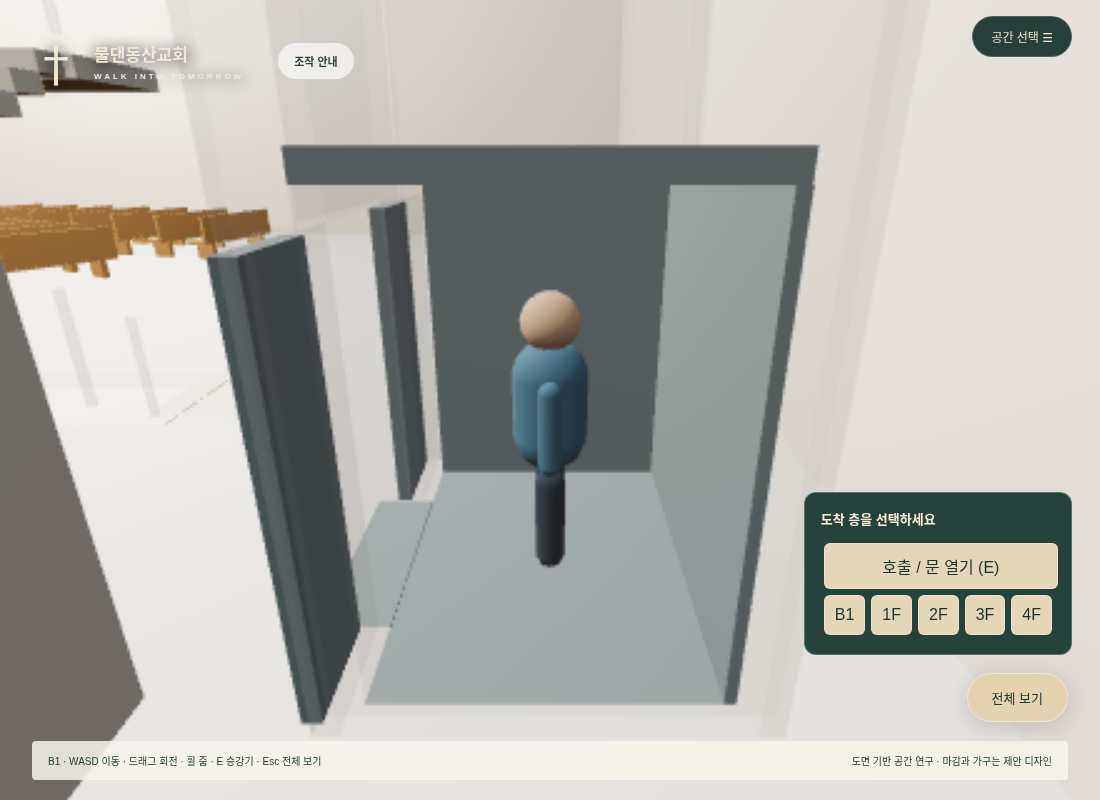
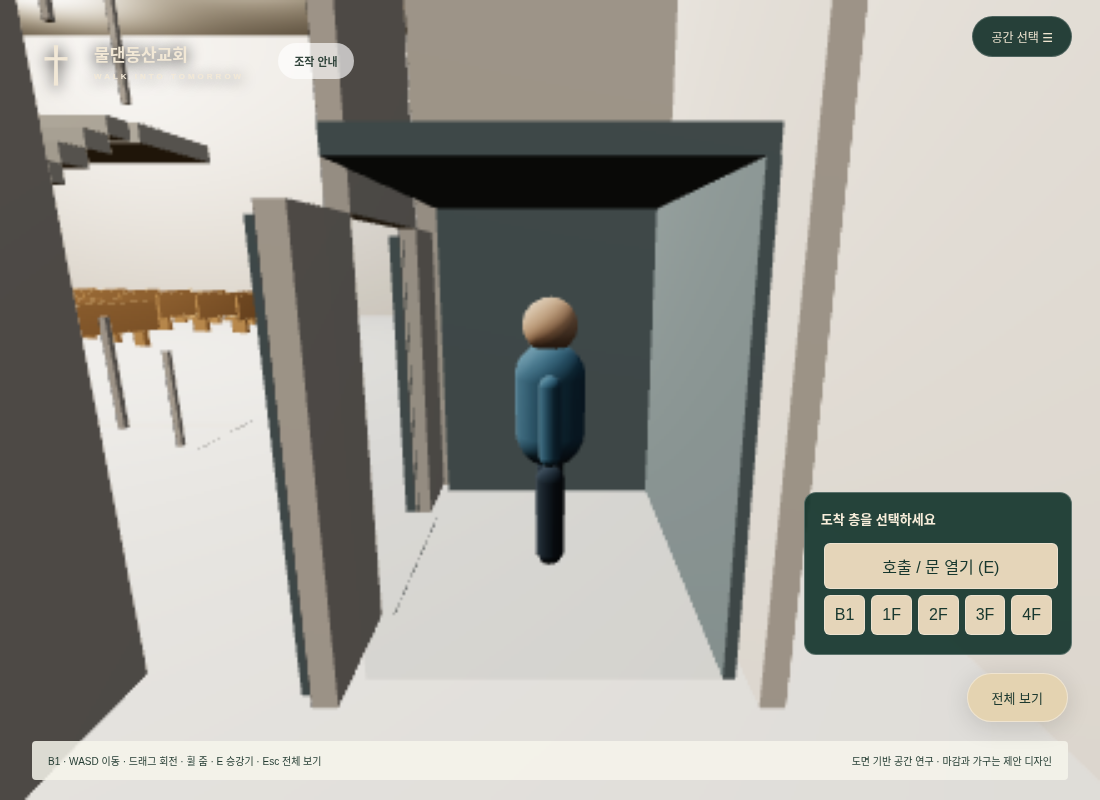
Localize chair occlusion and refine interior camera and lighting

diff --git a/src/app.js b/src/app.js
@@ -1,3 +1,4 @@
+import {installOcclusion} from './occlusion.js';
 import {BuildingWorld,FLOORS} from './building-world.js';
 import {ThirdPerson} from './third-person.js';
 import * as T from 'three';
@@ -15,6 +16,7 @@ let world;
 try {world=await BuildingWorld.load()} catch(error){document.querySelector('#loading').textContent='모델을 불러오지 못했습니다. 새로고침해 주세요.';throw error}
 // Preserve geometry/colors while keeping software WebGL usable.
 if(softwareRenderer){const fallback=new Map();world.root.traverse(o=>{if(!o.isMesh)return;const convert=m=>{if(!fallback.has(m)){const glass=m.transmission>0;fallback.set(m,new T.MeshLambertMaterial({color:m.color,map:m.map,emissive:m.emissive,emissiveIntensity:m.emissiveIntensity,side:m.side,transparent:glass||m.transparent,opacity:glass?.45:m.opacity,depthWrite:glass?false:m.depthWrite}))}return fallback.get(m)};o.material=Array.isArray(o.material)?o.material.map(convert):convert(o.material)})}
+for(const mesh of world.visualBatches)installOcclusion(mesh.material);
 scene.add(world.root);
 const groups=Object.fromEntries(FLOORS.map(f=>[f.id,world.root])),obstacles={};
 const data=Object.fromEntries(FLOORS.map(f=>[f.id,{
@@ -28,7 +30,7 @@ const seatCount=[...world.original.keys()].filter(n=>/Pew.*Seat/.test(n)).length
 function floorHeight(x,z){return world.support(x,z,thirdPerson?.position.y||0)??0}
 const thirdPerson=new ThirdPerson(scene,camera);
 let walking=false;const keys=new Set();
-function setSpace(id){renderer.shadowMap.needsUpdate=true;space=id;world.root.visible=true;world.lift.passenger=false;const d=data[id];controls.maxPolarAngle=id==='outside'?Math.PI*.49:Math.PI*.8;camera.fov=id==='sanctuary'?64:52;camera.updateProjectionMatrix();document.body.classList.toggle('compact',id==='sanctuary');document.querySelector('#spaces-toggle').setAttribute('aria-expanded',String(id!=='sanctuary'));camera.position.set(...d.eye);controls.target.set(...d.target);controls.update();scene.background=new T.Color(id==='outside'?0xdce3df:0x9caa9b);scene.fog=id==='outside'?new T.Fog(0xdce3df,65,170):null;scene.environmentIntensity=.65;hemi.intensity=id==='outside'?1.0:1.35;sun.intensity=id==='outside'?3.5:.65;renderer.toneMappingExposure=id==='outside'?.95:.78;document.body.classList.toggle('interior',id!=='outside');document.querySelector('#heading').innerHTML=d.title;document.querySelector('#description').innerHTML=d.description;document.querySelector('#chapter').textContent=d.chapter;document.querySelectorAll('[data-space]').forEach(b=>b.classList.toggle('active',b.dataset.space===id));setWalk(id!=='outside')}
+function setSpace(id){renderer.shadowMap.needsUpdate=true;space=id;world.root.visible=true;world.lift.passenger=false;const d=data[id];controls.maxPolarAngle=id==='outside'?Math.PI*.49:Math.PI*.8;camera.fov=id==='sanctuary'?64:52;camera.updateProjectionMatrix();document.body.classList.toggle('compact',id==='sanctuary');document.querySelector('#spaces-toggle').setAttribute('aria-expanded',String(id!=='sanctuary'));camera.position.set(...d.eye);controls.target.set(...d.target);controls.update();scene.background=new T.Color(id==='outside'?0xdce3df:0x9caa9b);scene.fog=id==='outside'?new T.Fog(0xdce3df,65,170):null;scene.environmentIntensity=id==='outside'?.65:.38;hemi.intensity=id==='outside'?1.0:.85;sun.intensity=id==='outside'?3.5:1.05;renderer.toneMappingExposure=id==='outside'?.95:.72;document.body.classList.toggle('interior',id!=='outside');document.querySelector('#heading').innerHTML=d.title;document.querySelector('#description').innerHTML=d.description;document.querySelector('#chapter').textContent=d.chapter;document.querySelectorAll('[data-space]').forEach(b=>b.classList.toggle('active',b.dataset.space===id));setWalk(id!=='outside')}
 function setWalk(on){
  walking=on;keys.clear();controls.enabled=!on;
  document.body.classList.toggle('walking',on);
@@ -52,7 +54,7 @@ function setWalk(on){
  renderer.render(scene,camera);
 }
 document.querySelectorAll('[data-space]').forEach(b=>b.onclick=()=>setSpace(b.dataset.space));document.querySelector('#walk').onclick=()=>setWalk(!walking);document.querySelector('#quick-walk').onclick=()=>setWalk(!walking);document.querySelector('#reset').onclick=()=>setSpace(space);
-const dialog=document.querySelector('#dialog');document.querySelector('#close').onclick=()=>dialog.close();document.querySelector('#plan').onclick=()=>{keys.clear();document.querySelector('#dialog-title').textContent='건축 평면도 · '+({outside:'1층',sanctuary:'지하 1층',education:'2층',community:'3층',terrace:'4층'}[space]);document.querySelector('#dialog-content').innerHTML=`<img src="assets/plans/church-plan-${data[space].plan}.png" alt="첨부 건축 평면도"><p>도면의 치수와 용도를 참고한 공간 연구입니다. 승강기와 계단 코어의 정확한 좌표 정합 및 층고 설계 검증은 진행 중입니다.</p>`;dialog.showModal()};document.querySelector('#help').onclick=()=>{keys.clear();document.querySelector('#dialog-title').textContent='천천히, 공간을 만나보세요';document.querySelector('#dialog-content').innerHTML='<p>전체 보기: 마우스를 드래그해 회전하고 휠로 확대합니다.<br>캐릭터와 함께 걷기: WASD 또는 방향키로 이동하고 드래그로 회전, 휠로 거리를 조절합니다. 좁은 공간에서는 시야를 가리는 표면이 잠시 투명해집니다. 휴대전화에서는 방향 버튼으로 이동합니다.<br>Esc: 전체 보기로 돌아갑니다.<br>계단을 걸어 이동하거나 승강기 앞에서 E로 호출할 수 있습니다. 탑승 후 층 버튼을 누르세요. 공간 선택 메뉴는 해당 층으로 바로 이동합니다.</p>';dialog.showModal()};
+const dialog=document.querySelector('#dialog');document.querySelector('#close').onclick=()=>dialog.close();document.querySelector('#plan').onclick=()=>{keys.clear();document.querySelector('#dialog-title').textContent='건축 평면도 · '+({outside:'1층',sanctuary:'지하 1층',education:'2층',community:'3층',terrace:'4층'}[space]);document.querySelector('#dialog-content').innerHTML=`<img src="assets/plans/church-plan-${data[space].plan}.png" alt="첨부 건축 평면도"><p>도면의 치수와 용도를 참고한 공간 연구입니다. 승강기와 계단 코어의 정확한 좌표 정합 및 층고 설계 검증은 진행 중입니다.</p>`;dialog.showModal()};document.querySelector('#help').onclick=()=>{keys.clear();document.querySelector('#dialog-title').textContent='천천히, 공간을 만나보세요';document.querySelector('#dialog-content').innerHTML='<p>전체 보기: 마우스를 드래그해 회전하고 휠로 확대합니다.<br>캐릭터와 함께 걷기: WASD 또는 방향키로 이동하고 드래그로 회전, 휠로 거리를 조절합니다. 좁은 공간에서는 시야를 가리는 부재만 잠시 숨겨집니다. 휴대전화에서는 방향 버튼으로 이동합니다.<br>Esc: 전체 보기로 돌아갑니다.<br>계단을 걸어 이동하거나 승강기 앞에서 E로 호출할 수 있습니다. 탑승 후 층 버튼을 누르세요. 공간 선택 메뉴는 해당 층으로 바로 이동합니다.</p>';dialog.showModal()};
 addEventListener('keydown',e=>{if(dialog.open)return;if(e.key==='Escape'){setWalk(false);return}if(['ArrowUp','ArrowDown','ArrowLeft','ArrowRight',' '].includes(e.key))e.preventDefault();keys.add(e.key.toLowerCase())});addEventListener('keyup',e=>keys.delete(e.key.toLowerCase()));addEventListener('blur',()=>keys.clear());let drag=false;renderer.domElement.addEventListener('pointerdown',e=>{drag=true;renderer.domElement.setPointerCapture(e.pointerId)});renderer.domElement.addEventListener('pointerup',()=>drag=false);renderer.domElement.addEventListener('pointercancel',()=>drag=false);renderer.domElement.addEventListener('pointermove',e=>{if(walking&&drag&&!dialog.open){thirdPerson.rotate(e.movementX,e.movementY)}});document.querySelectorAll('[data-move]').forEach(b=>{const key={forward:'w',back:'s',left:'a',right:'d'}[b.dataset.move];b.onpointerdown=e=>{e.preventDefault();b.setPointerCapture(e.pointerId);keys.add(key)};b.onpointerup=b.onpointercancel=()=>keys.delete(key)});
 renderer.domElement.addEventListener('wheel',e=>{if(walking&&!dialog.open){e.preventDefault();thirdPerson.zoom(e.deltaY)}},{passive:false});
 function allowed(x,z){return world.clearBody(x,z,thirdPerson.position.y)}

diff --git a/src/third-person.js b/src/third-person.js
@@ -1,4 +1,5 @@
 import * as T from 'three';
+import {setSourceVisibility} from './occlusion.js';
 import {createFollowCamera} from './walk_camera_v12.js';
 
 // Camera and player state are separate: zoom/occlusion never move the player.
@@ -8,6 +9,7 @@ export class ThirdPerson {
     this.position = new T.Vector3();
     this.phase = 0;
     this.ray = new T.Raycaster();
+    this.ray.layers.enableAll();
     this.faded = new Map();
     this.fadeMaterials = new WeakMap();
     this.avatar = new T.Group();
@@ -55,7 +57,7 @@ export class ThirdPerson {
     this.follow.zoom(delta);
   }
   restore() {
-    for (const [mesh, material] of this.faded) mesh.material = material;
+    for (const [mesh, material] of this.faded) {if (!setSourceVisibility(mesh, 1)) mesh.material = material;}
     this.faded.clear();
   }
   update(dt, keys, allowed, floorHeight, group, movement, refreshView = true) {
@@ -86,22 +88,27 @@ export class ThirdPerson {
     this.avatar.updateMatrixWorld(true);
     this.restore();
     // Keep the framing in narrow rooms; temporarily fade intervening surfaces.
-    // Current architecture is batched by material, so an entire batch may fade.
+    // Raycast source objects; hide only their vertex ranges in render batches.
     group.updateMatrixWorld(true);
     const occluders = new Set();
+    if(this.targetWorld!==group){this.targetWorld=group;this.targets=[];group.traverse(o=>{if(o.isMesh&&!o.userData.visualBatch)this.targets.push(o)})}
     const samples = [[0, .1], [0, 1.7], ...Array.from({length: 15}, (_, i) => [(i - 7) * .055, .9])];
     for (const [x, y] of samples) {
       const sample = this.position.clone().add(new T.Vector3(Math.cos(this.yaw) * x, y, -Math.sin(this.yaw) * x));
       const direction = sample.sub(this.camera.position);
       this.ray.set(this.camera.position, direction.clone().normalize());
       this.ray.far = direction.length();
-      for (const hit of this.ray.intersectObject(group, true)) hit.object.visible && occluders.add(hit.object);
+      for (const hit of this.ray.intersectObjects(this.targets, false)) hit.object.visible && occluders.add(hit.object);
       // Reverse rays also detect the exit face when the camera is inside a wall.
       this.ray.set(this.camera.position.clone().add(direction), direction.clone().normalize().negate());
-      for (const hit of this.ray.intersectObject(group, true)) hit.object.visible && occluders.add(hit.object);
+      for (const hit of this.ray.intersectObjects(this.targets, false)) hit.object.visible && occluders.add(hit.object);
     }
+    // Keep each pew coherent: do not leave its legs floating when its seat is hidden.
+    const pews=new Set([...occluders].map(o=>(o.userData.name||o.name).match(/^(B1_Pew_\d+)_/)?.[1]).filter(Boolean));
+    if(pews.size)for(const o of this.targets){const key=(o.userData.name||o.name).match(/^(B1_Pew_\d+)_/)?.[1];if(pews.has(key))occluders.add(o)}
     for (const mesh of occluders) {
       this.faded.set(mesh, mesh.material);
+      if (setSourceVisibility(mesh, 0)) continue;
       if (!this.fadeMaterials.has(mesh)) {
         const make = material => {
           const faded = material.clone();

diff --git a/src/walk_camera_v12.js b/src/walk_camera_v12.js
@@ -7,6 +7,7 @@ export function createFollowCamera(THREE, camera, avatar, getWorld = () => null)
   const desired = new THREE.Vector3();
   const view = new THREE.Vector3();
   const ray = new THREE.Raycaster();
+  ray.layers.enableAll();
   const pose = {yaw: 0.35, pitch: 0.34, distance: 7.5};
   const allowed = {
     minDistance: 5.5,
@@ -23,7 +24,7 @@ export function createFollowCamera(THREE, camera, avatar, getWorld = () => null)
     lastWorld = world;
     blockers = [];
     world?.traverse(o => {
-      if (!o.isMesh || !o.visible || o.userData?.ignoreCameraCollision) return;
+      if (!o.isMesh || !o.visible || o.userData.visualBatch || o.userData?.ignoreCameraCollision) return;
       const n = (o.name || "").toLowerCase();
       if (o.isMesh) {
         blockers.push(o);
@@ -45,7 +46,7 @@ export function createFollowCamera(THREE, camera, avatar, getWorld = () => null)
   }
   function reset(outdoor = false) {
     pose.yaw = outdoor ? 0.45 : 0.35;
-    pose.pitch = outdoor ? 0.29 : 0.38;
+    pose.pitch = outdoor ? 0.29 : 0.24;
     pose.distance = outdoor ? 10 : 7.5;
     snap();
   }
@@ -75,13 +76,13 @@ export function createFollowCamera(THREE, camera, avatar, getWorld = () => null)
       if (hit) safeDistance = Math.max(3.6, Math.min(safeDistance, hit.distance - 0.35));
     }
     // Portrait view needs enough horizontal room for shoulders too.
-    const halfFov = THREE.MathUtils.degToRad(55 / 2);
+    const halfFov = THREE.MathUtils.degToRad(64 / 2);
     const halfWidth = Math.atan(Math.tan(halfFov) * camera.aspect);
     safeDistance = Math.max(safeDistance, .55 / Math.sin(halfWidth));
     desired.copy(anchor).addScaledVector(view, safeDistance);
     const alpha = immediate ? 1 : 1 - Math.exp(-7.5 * Math.min(dt, 0.05));
     camera.position.lerp(desired, alpha);
-    const fov = safeDistance < 4.9 ? 66 : 55;
+    const fov = safeDistance < 4.9 ? 70 : 64;
     if (Math.abs(camera.fov - fov) > 0.01) {
       camera.fov = THREE.MathUtils.lerp(camera.fov, fov, alpha);
       camera.updateProjectionMatrix();

diff --git a/src/occlusion.js b/src/occlusion.js
@@ -1,0 +1,19 @@
+// Per-source visibility survives material batching without fading unrelated objects.
+export function installOcclusion(material) {
+  material.onBeforeCompile = shader => {
+    shader.vertexShader = shader.vertexShader.replace('#include <common>', '#include <common>\nattribute float sourceVisibility;\nvarying float vSourceVisibility;')
+      .replace('#include <begin_vertex>', '#include <begin_vertex>\nvSourceVisibility = sourceVisibility;');
+    shader.fragmentShader = shader.fragmentShader.replace('#include <common>', '#include <common>\nvarying float vSourceVisibility;')
+      .replace('#include <clipping_planes_fragment>', '#include <clipping_planes_fragment>\nif (vSourceVisibility < 0.5) discard;');
+  };
+  material.customProgramCacheKey = () => 'source-occlusion-v1';
+  material.needsUpdate = true;
+}
+export function setSourceVisibility(mesh, value) {
+  const proxy = mesh.userData.visualProxy, range = mesh.userData.visualRange;
+  if (!proxy || !range) return false;
+  const attribute = proxy.geometry.getAttribute('sourceVisibility');
+  attribute.array.fill(value, range.start, range.start + range.count);
+  attribute.needsUpdate = true;
+  return true;
+}

diff --git a/src/building-world.js b/src/building-world.js
@@ -106,9 +106,10 @@ export class BuildingWorld {
     for(const batch of batches.values()){
       const geometry=mergeGeometries(batch.parts,false);for(const g of batch.parts)g.dispose();
       if(!geometry)continue;
-      const mesh=new T.Mesh(geometry,batch.material);mesh.name='Render_batch_'+batch.material.name;
+      geometry.setAttribute('sourceVisibility',new T.BufferAttribute(new Float32Array(geometry.attributes.position.count).fill(1),1));
+      const mesh=new T.Mesh(geometry,batch.material.clone());mesh.userData.visualBatch=true;mesh.name='Render_batch_'+batch.material.name;
       mesh.castShadow=true;mesh.receiveShadow=true;this.root.add(mesh);this.visualBatches.push(mesh);
-      for(const original of batch.originals){original.layers.set(1);original.userData.visualProxy=mesh}
+      let start=0;for(const original of batch.originals){const count=original.geometry.attributes.position.count;original.layers.set(1);original.userData.visualProxy=mesh;original.userData.visualRange={start,count};start+=count}
     }
   }
   nearestFloor(y){return FLOORS.reduce((a,b)=>Math.abs(b.y-y)<Math.abs(a.y-y)?b:a)}

diff --git a/README.md b/README.md
@@ -2,7 +2,7 @@
 
 기존 Three.js 탐방 UI에 사용자가 첨부한 `3d-jutsu-2026-11-02-06-34-15.glb`를 연결한 정적 웹 앱입니다. 모델은 `assets/church-v13.glb`에 원본 바이트 그대로 보관합니다. 별도로 업로드된 `assets/mdcc.glb`도 보존합니다.
 
-층 기준은 B1 **-9.4m**, 1F **0m**, 2F **3.2m**, 3F **9.6m**, 4F **12.8m**입니다. 우측 계단과 승강기로 층간 이동합니다. 전체 보기에서는 원본 외관을 보고, 걷기에서는 시야를 가리는 표면을 잠시 투명하게 표시합니다.
+층 기준은 B1 **-9.4m**, 1F **0m**, 2F **3.2m**, 3F **9.6m**, 4F **12.8m**입니다. 우측 계단과 승강기로 층간 이동합니다. 전체 보기에서는 원본 외관을 보고, 걷기에서는 시야를 가리는 개별 건축 부재·장의자만 잠시 숨깁니다.
 
 ## 실행과 조작
 
@@ -16,7 +16,7 @@
 
 ## 검증
 
-`npm install` 후 `npm test`로 모델 기하/동선 검사를 실행합니다. 로컬 서버와 Chromium이 실행 가능한 환경에서 `npm run test:browser`, `npm run test:camera`를 실행합니다. `CHROMIUM_PATH`와 `TEST_URL`로 경로를 변경할 수 있습니다. 브라우저 테스트는 CDN 요청을 동일 버전 로컬 Three.js로 응답합니다.
+`npm install` 후 `npm test`로 모델 기하/동선 검사를 실행합니다. 로컬 서버와 Chromium이 실행 가능한 환경에서 `npm run test:browser`, `npm run test:camera`, `npm run test:occlusion`를 실행합니다. `CHROMIUM_PATH`와 `TEST_URL`로 경로를 변경할 수 있습니다. 브라우저 테스트는 CDN 요청을 동일 버전 로컬 Three.js로 응답합니다.
 
 검사 결과와 스크린샷은 [검증 보고서](docs/verification/REPORT.md), `docs/verification/current/`에 있습니다. 기존 개략 모델의 과거 테스트 결과는 이번 모델의 통과 근거로 사용하지 않습니다.
 
@@ -24,6 +24,10 @@
 
 외관의 십자가 정면 오른쪽 끝과 측면 유리의 방향을 유지합니다. B1 단상과 장의자 25개를 보존합니다. 런타임에서 내부 슬래브 개구부, 계단참 연결, 승강기 문과 이동을 보완합니다. 십자가 타워는 외부 표면 위치를 유지하면서 내부를 비워 승강기 통로를 확보합니다.
 
-PDF의 두 계단실 중 우측 코어를 이용하는 동선입니다. 좌측 1호 계단, 모든 실의 도면 좌표 정합, 1층 주차 배치의 상세 재현은 미완료입니다. 층 높이는 인계 기준이며 평면도만으로 설계 층고를 인증하지 않습니다. 가림 처리 시 같은 재질의 여러 벽이 함께 투명해질 수 있고, 카메라가 항상 실내 경계 안에 머무르는 방식은 아닙니다.
+PDF의 두 계단실 중 우측 코어를 이용하는 동선입니다. 좌측 1호 계단, 모든 실의 도면 좌표 정합, 1층 주차 배치의 상세 재현은 미완료입니다. 층 높이는 인계 기준이며 평면도만으로 설계 층고를 인증하지 않습니다. 가림 처리는 원본 부재 단위이며, 장의자는 한 개씩 묶어 처리합니다. 카메라가 항상 실내 경계 안에 머무르는 방식은 아닙니다.
 
 GitHub Pages는 현재 저장소의 main/root를 게시합니다. 별도 Higgsfield/Sites 웹 체험판은 이 저장소 배포와 별개입니다.
+
+## 2026-11-03 시야와 공간감 보완
+
+같은 재질의 장의자 전체가 희게 흐려지는 문제를 수정했습니다. 화면을 가리는 원본 부재의 정점 범위만 숨기므로 나머지 좌석과 벽은 원래 색을 유지합니다. 실내 시야각 64°(근접 70°), 낮춘 카메라 내려다보기 각도, 환경광과 방향광 대비로 공간감을 조정했습니다. 건물 치수·외관 형상·좌석 수는 바꾸지 않았습니다.

diff --git a/docs/verification/REPORT.md b/docs/verification/REPORT.md
@@ -54,3 +54,13 @@ Higgsfield 프로젝트 `47f79244-88ea-4a33-9e60-d761813e183a`에 revision 13을
 ## 배포 검증
 
 배포 대상은 사용자가 지정한 현재 저장소의 GitHub Pages(main/root)다. 게시 주소 직접 접속은 실행 환경 프록시의 CONNECT 403으로 차단되므로, 실제 공개 URL의 브라우저 검사는 수행하지 못했다. 배포 여부는 GitHub Pages 워크플로 결과로 별도 확인한다.
+
+## 2026-11-03 후속 수정: 의자 접근 시 화면 백화
+
+이전의 재질 배치 전체 opacity=0.08 처리가 같은 목재 재질의 모든 장의자를 투명하게 만들었다. `src/occlusion.js`를 추가하고 배치의 원본 부재별 정점 범위에 가림 속성을 부여했다. 가림 레이는 렌더 배치가 아닌 원본 부재를 검사한다. 실제 가리는 부재만 셰이더에서 제외하며 같은 장의자의 좌판·등받이·다리는 함께 처리한다. 승강기 등 동적 개별 메시는 기존 개별 투명화를 유지한다. 위의 '같은 재질 배치 전체가 투명해짐' 제약은 이 수정으로 해소했다.
+
+실내 카메라 시야각을 55°→64°(근접 66°→70°), 내려다보기 각도를 0.38→0.24rad로 조정했다. 실내 환경 반사/상하 주변광을 낮추고 방향광 비중을 높였다. 외관 조명 설정, 건물 치수, GLB 원본, 좌석 수는 유지했다. 공간감은 시각적 조정이며 실제 공간이 커졌다는 의미는 아니다.
+
+`tests/pew-occlusion.cjs`: 실제 Chromium에서 본당 중간 장의자 앞에 재현 위치를 설정했다. 가림 대상 4개 부재, 좌판 기준 25개 중 1개만 숨김, 나머지 원본 정점 범위의 표시 값 유지, Esc 시 모든 표시 값 복원을 확인했다. JavaScript/셰이더 오류 0개. 결과는 `current/pew-occlusion-results.json`, 이미지는 `current/pew-occlusion-local.png`다. 소프트웨어 WebGL에서 확인했으며 실제 하드웨어 GPU에서는 이번 셰이더를 별도로 검증하지 않았다.
+
+후속 수정 검증: 기하 16개, 전체 브라우저 동선 19개, 일반 실시간 카메라 5개 재실행 통과. 장의자 단위 숨김을 추가한 후 가림 재현 검사를 재실행했고, 최종 스크린샷을 직접 확인했다.
